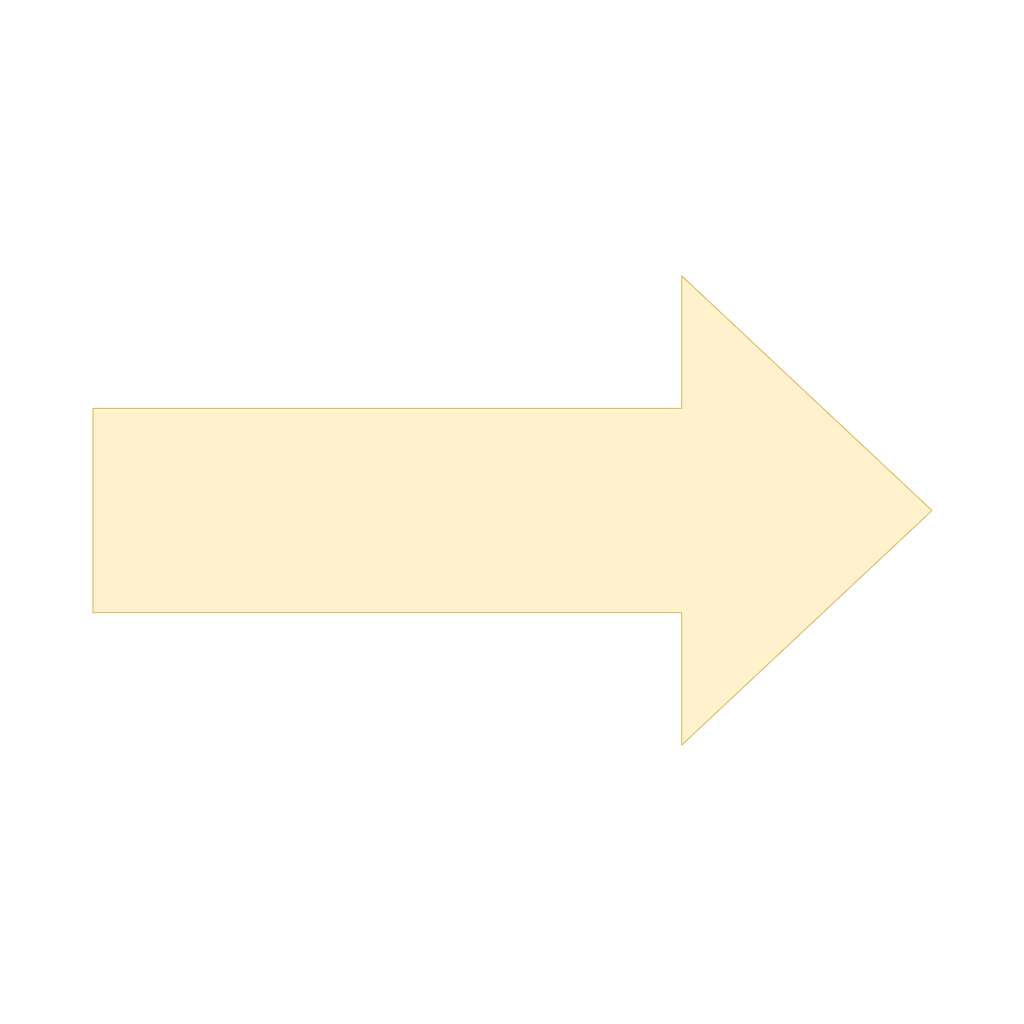
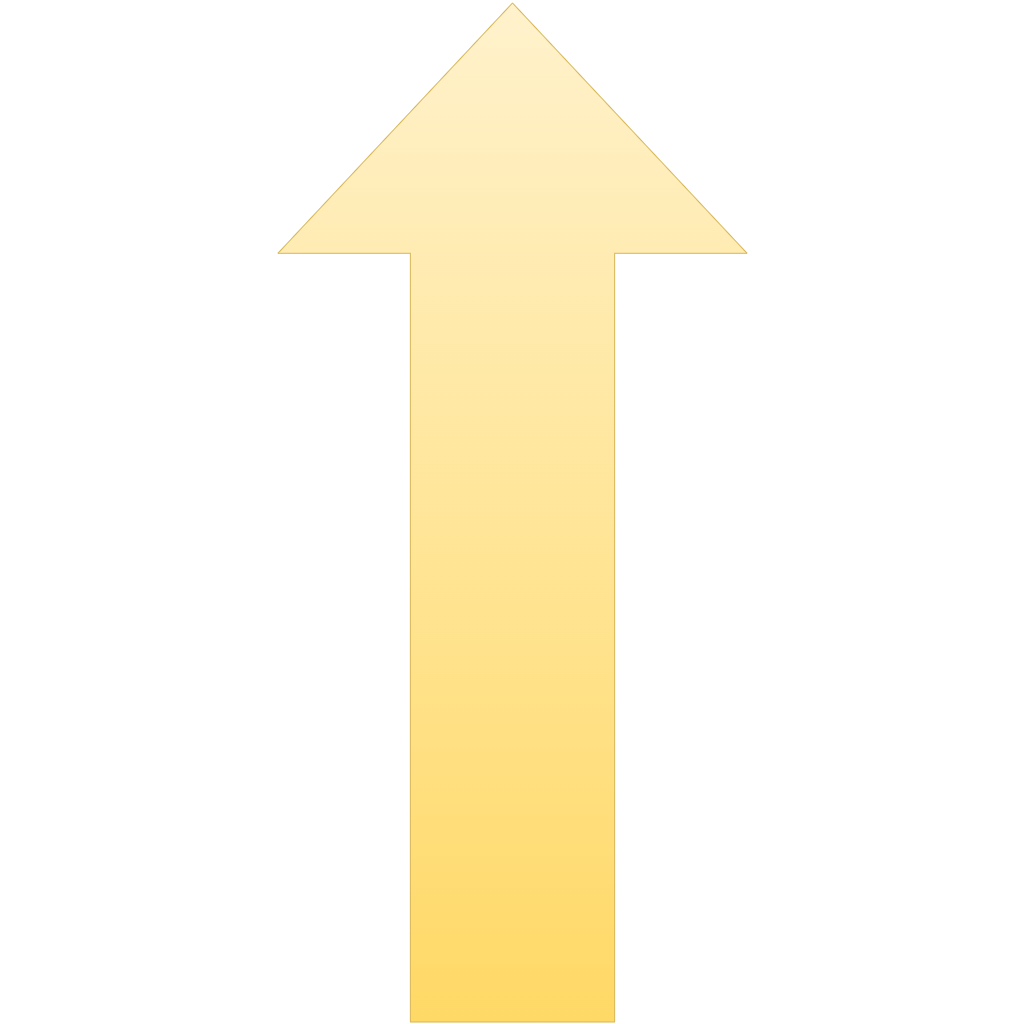
ドラッグ中の軸を表示したい、レベルバーを追加

diff --git a/wtgb/CoreType/Color.h b/wtgb/CoreType/Color.h
@@ -15,15 +15,27 @@ namespace wtgb
 		// コンストラクタもそのまま継承
 		using DirectX::XMFLOAT4::XMFLOAT4;
 
-		Color(const ColorCode _hexCode, const uint8_t _alpha = UINT8_MAX) :
+		inline Color(const ColorCode _hexCode, const uint8_t _alpha = UINT8_MAX) :
 			XMFLOAT4
 			{
-				static_cast<float>((_hexCode & 0xff0000) >> (8 * 2)) / 255.0f,
-				static_cast<float>((_hexCode & 0x00ff00) >> (8 * 1)) / 255.0f,
-				static_cast<float>((_hexCode & 0x0000ff) >> (8 * 0)) / 255.0f,
-				static_cast<float>(_alpha) / 255.0f,
+				static_cast<float>((_hexCode & 0xff0000) >> (8 * 2)) / static_cast<float>(UINT8_MAX),
+				static_cast<float>((_hexCode & 0x00ff00) >> (8 * 1)) / static_cast<float>(UINT8_MAX),
+				static_cast<float>((_hexCode & 0x0000ff) >> (8 * 0)) / static_cast<float>(UINT8_MAX),
+				static_cast<float>(_alpha) / static_cast<float>(UINT8_MAX),
 			}
 		{
+		}
+
+		/// <summary>
+		/// カラーコードに変換する
+		/// </summary>
+		/// <returns>16進数カラーコード</returns>
+		inline ColorCode ToCode() const
+		{
+			return
+				static_cast<ColorCode>(x * static_cast<float>(UINT8_MAX)) << (8 * 2) | 
+				static_cast<ColorCode>(y * static_cast<float>(UINT8_MAX)) << (8 * 1) |
+				static_cast<ColorCode>(z * static_cast<float>(UINT8_MAX)) << (8 * 1) ;
 		}
 
 		static const ColorCode RED;

diff --git a/Source/PlayScene/UI/PerfectTimer.cpp b/Source/PlayScene/UI/PerfectTimer.cpp
@@ -1,4 +1,5 @@
 #include "PerfectTimer.h"
+#include "CoreType/ExtJson/Color.h"
 
 PerfectTimer::PerfectTimer() :
 	GameObject{ "Play/UI/PerfectTimer.json" },
@@ -40,11 +41,14 @@ void PerfectTimer::Update()
 #pragma region ゲージを塗っていく
 	Color fillColor{ ratio_ < 1.0f ? bar_.fillColorNormal : bar_.fillColorFull };
 	
+	float leftX{ Mathf::Lerp(0.0f, SCREEN_SIZE.x * 0.5f, ratio_) };
+
 	config
 		.position(Vector2{ 0.0f, static_cast<float>(SCREEN_SIZE.y - height_ + margin_) })
-		.scale(Vector2{ (SCREEN_SIZE.x * 0.5f) * ratio_, static_cast<float>(SCREEN_SIZE.y) });
+		.scale(Vector2{ leftX, static_cast<float>(SCREEN_SIZE.y) });
 	CONTEXT.DrawBox(fillColor);
 
+	//float leftX{ Mathf::Lerp(0.0f, SCREEN_SIZE.x * 0.5f, ratio_) };
 	config
 		.position(Vector2{ SCREEN_SIZE.x - SCREEN_SIZE.x * 0.5f * ratio_, static_cast<float>(SCREEN_SIZE.y - height_ + margin_) })
 		.scale({ (SCREEN_SIZE.x * 0.5f) * ratio_, static_cast<float>(SCREEN_SIZE.y) });

diff --git a/Source/PlayScene/DragArrowAxis.cpp b/Source/PlayScene/DragArrowAxis.cpp
@@ -1,9 +1,9 @@
 #include "DragArrowAxis.h"
 
 DragArrowAxis::DragArrowAxis(const EntityId _player) :
-	GameObject{ "Simple.json" }
+	GameObject{ "Simple.json" },
+	player_{ _player }
 {
-	Property().SetParent(_player);
 }
 
 DragArrowAxis::~DragArrowAxis()
@@ -16,6 +16,8 @@ void DragArrowAxis::Init()
 
 void DragArrowAxis::Update()
 {
+	Vector3 position{ FindGameObject(player_)->Transform().GetPosition() };
+	Transform().SetPositionWorld(position);
 }
 
 void DragArrowAxis::Release()
@@ -24,7 +26,7 @@ void DragArrowAxis::Release()
 
 void DragArrowAxis::SetScaleZ(const float _z)
 {
-	Transform().SetScale(Vector3{ 1.0f, 1.0f, _z });
+	Transform().SetScale(Vector3{ 5.0f, 5.0f, 5.0f * (_z + 1.0f) });
 }
 
 void DragArrowAxis::SetAngleY(const float _angle)

diff --git a/Source/PlayScene/PlayScene.cpp b/Source/PlayScene/PlayScene.cpp
@@ -64,7 +64,7 @@ void PlayScene::Start()
 	EntityId player{ Instantiate<Player>(INVALID_ENTITY, Vector3{ startPositionX, 30.0f, 5.0f }, playState) };
 	Instantiate<StageObjectManager>(stageLine, player, playState);
 	EntityId dragArrowAxis{ Instantiate<DragArrowAxis>(player) };
-	Instantiate<DragArrow>(player);
+	Instantiate<DragArrow>(dragArrowAxis);
 	Instantiate<CameraController>(dragArrowAxis);
 
 	EntityId miniCharaManager{ Instantiate<MiniCharaManager>(smfPlayer) };

diff --git a/Source/PlayScene/CameraController/CameraMovePlay.cpp b/Source/PlayScene/CameraController/CameraMovePlay.cpp
@@ -309,7 +309,7 @@ void CameraMovePlay::Update(GameObjectReference _ref)
 	DragArrowAxis* pAxis{ pGameObject->FindGameObject<DragArrowAxis>(dragArrowAxis) };
 
 	Vector2 diff{ static_cast<float>(diffValue_.x), -static_cast<float>(diffValue_.y) };
-	pAxis->SetAngleY(std::atan2f(diff.y, diff.x));
+	pAxis->SetAngleY(std::atan2f(diff.x, diff.y));
 	float scale{ std::sqrtf(diff.x * diff.x + diff.y * diff.y) };
 	pAxis->SetScaleZ(scale);
 #pragma endregion

diff --git a/wtgb/CoreType/ExtJson/Color.h b/wtgb/CoreType/ExtJson/Color.h
@@ -1,0 +1,19 @@
+#pragma once
+#include "LibHeader/NlohmannJson.h"
+#include "../Color.h"
+
+
+namespace wtgb
+{
+	inline void to_json(json& j, const Color& c)
+	{
+		std::stringstream ss{};
+		ss << std::hex << c.ToCode();
+		j = ss.str();
+	}
+
+	inline void from_json(const json& j, Color& c)
+	{
+		c = Color{ std::stoul(j.get<std::string>(), nullptr, 16) };
+	}
+}

diff --git a/Source/PlayScene/DragArrowAxis.h b/Source/PlayScene/DragArrowAxis.h
@@ -25,4 +25,7 @@ public:
 	/// </summary>
 	/// <param name="_angle">回転角度</param>
 	void SetAngleY(const float _angle);
+
+private:
+	EntityId player_;  // プレイヤーエンティティ
 };
